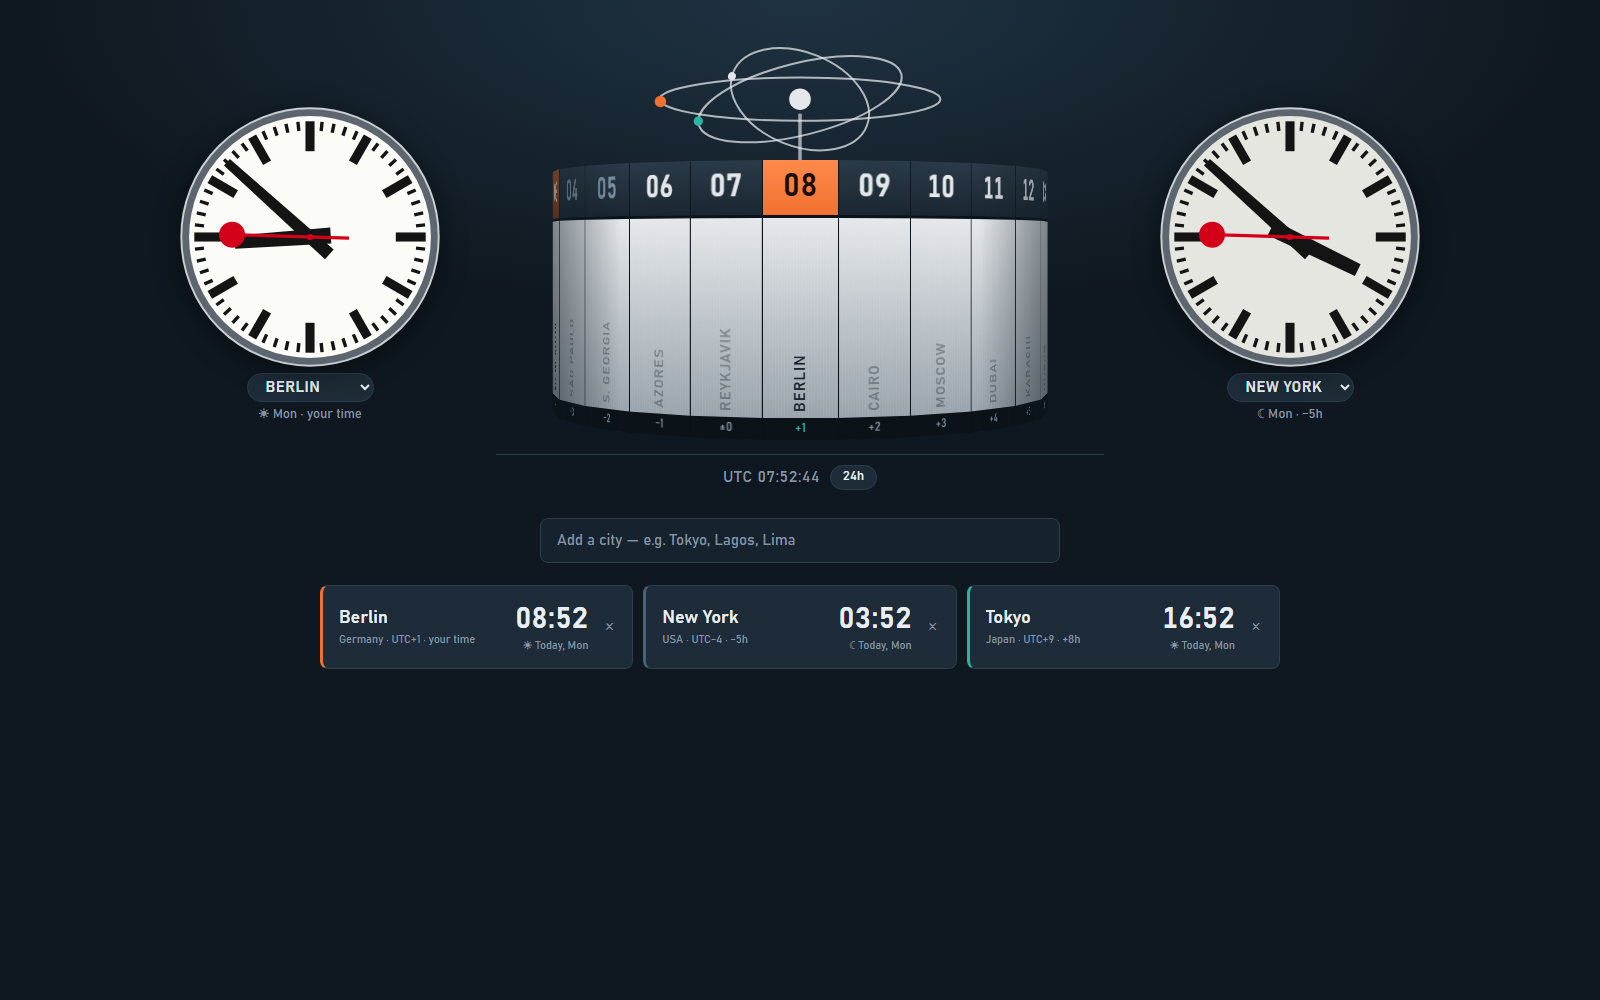
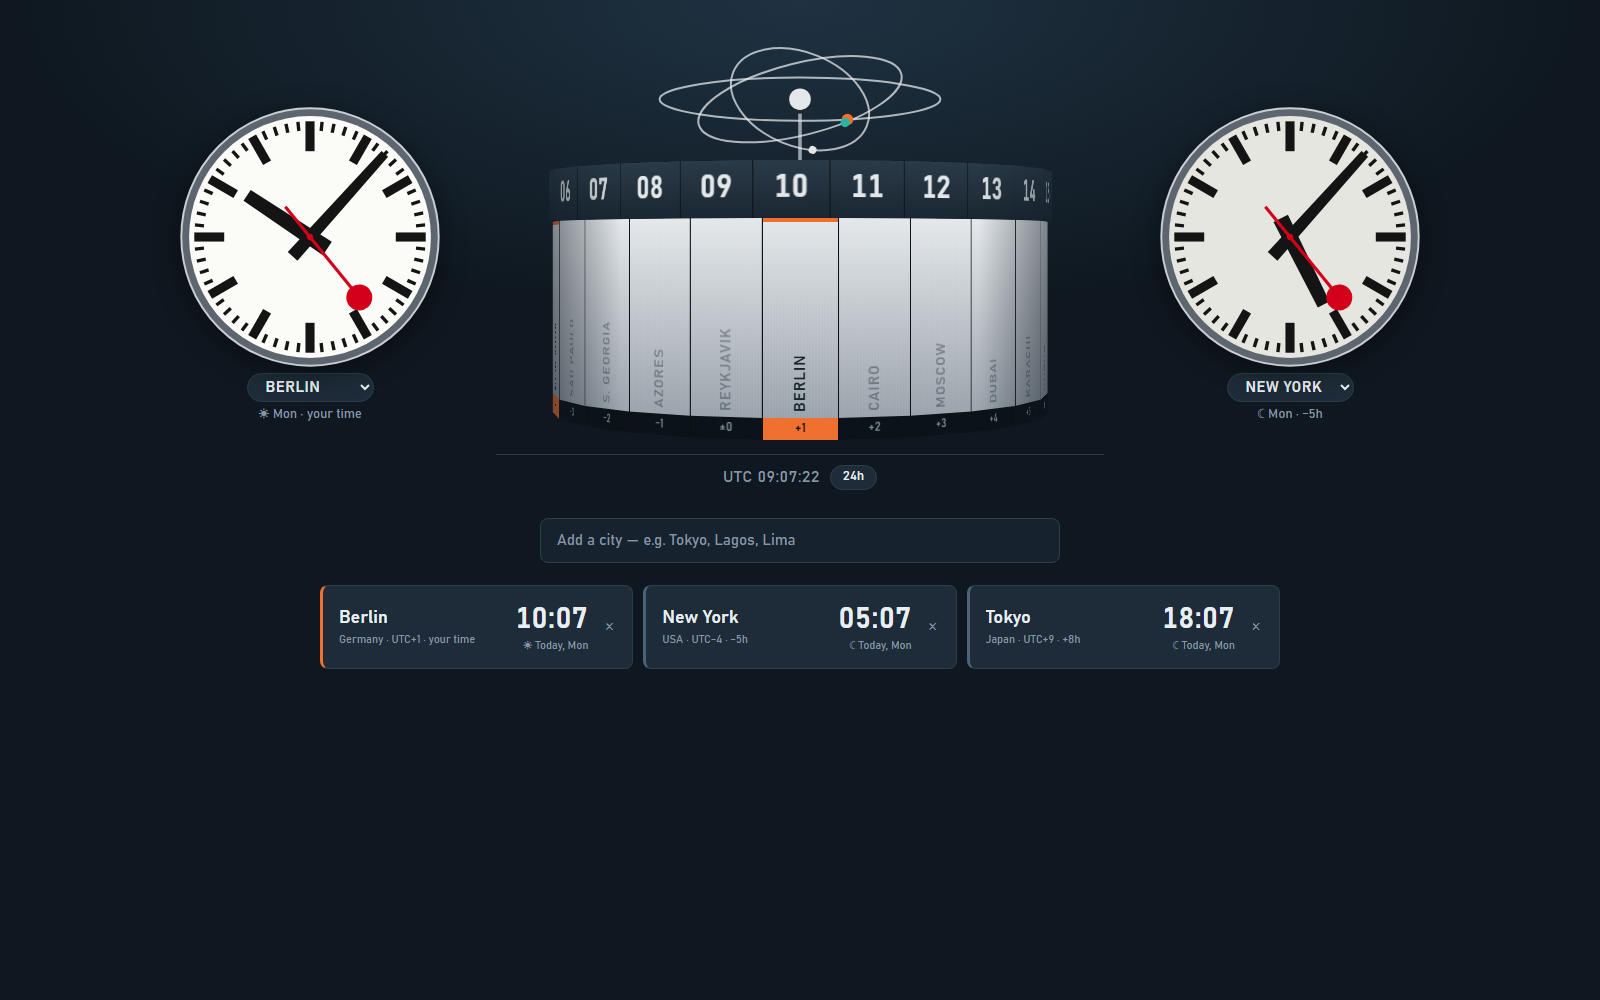
Turn the hour ring and atom model like the real Weltzeituhr
The hour ring is now separate from the fixed column and turns once a day,
so each number glides from face to face; the atom model turns once a
minute in sync with the clock. City faces are marked on the column body
instead of the ring. Refresh README screenshots.

diff --git a/popup.js b/popup.js
@@ -158,6 +158,7 @@ const save = () => store.set({ cities: state.cities, hour12: state.hour12, clock
 // ---------- The column ----------
 
 const faces = [];
+const ringSegs = [];
 
 function buildColumn() {
   const cyl = $("cylinder");
@@ -166,9 +167,41 @@ function buildColumn() {
     const face = document.createElement("div");
     face.className = "face";
     face.style.transform = `rotateY(${i * FACE_DEG}deg) translateZ(${RADIUS}px)`;
-    face.innerHTML = `<div class="hour"></div><div class="body"></div><div class="zone">${fmtOffset(k * 60)}</div>`;
+    face.innerHTML = `<div class="track"></div><div class="body"></div><div class="zone">${fmtOffset(k * 60)}</div>`;
     cyl.appendChild(face);
-    faces.push({ k, el: face, hour: face.firstChild, body: face.children[1] });
+    faces.push({ k, el: face, body: face.children[1] });
+  }
+
+  // The hour ring is separate from the fixed faces, as on the real clock:
+  // it carries the numbers 0–23 and turns once a day around the column.
+  // It runs just outside the column's corners so it never cuts into them
+  // when a number sits between two faces.
+  const ringRadius = RADIUS / Math.cos((FACE_DEG / 2) * Math.PI / 180) + 2;
+  const faceW = parseFloat(getComputedStyle(document.documentElement).getPropertyValue("--face-w")) || 46;
+  const segW = faceW * ringRadius / RADIUS;
+  const ring = document.createElement("div");
+  ring.className = "ring";
+  ring.id = "ring";
+  ring.style.width = `${segW}px`;
+  ring.style.left = `${(faceW - segW) / 2}px`;
+  for (let h = 0; h < 24; h++) {
+    const seg = document.createElement("div");
+    seg.className = isNight(h) ? "seg night" : "seg";
+    seg.style.transform = `rotateY(${(h + 11) * FACE_DEG}deg) translateZ(${ringRadius}px)`;
+    ring.appendChild(seg);
+    ringSegs.push({ h, el: seg });
+  }
+  cyl.appendChild(ring);
+}
+
+// Hour h sits over the face where it is exactly h:00 right now, so the ring
+// creeps westward 15° an hour and each number glides from face to face.
+function renderRing(now) {
+  const t = now.getUTCHours() + now.getUTCMinutes() / 60 + now.getUTCSeconds() / 3600;
+  $("ring").style.transform = `rotateY(${-t * FACE_DEG}deg)`;
+  for (const s of ringSegs) {
+    const label = state.hour12 ? String(s.h % 12 || 12) : String(s.h).padStart(2, "0");
+    if (s.el.textContent !== label) s.el.textContent = label;
   }
 }
 
@@ -183,10 +216,6 @@ function renderColumn(now) {
 
   const front = frontFace();
   for (const f of faces) {
-    const hour = (utcHour + f.k + 24) % 24;
-    const label = state.hour12 ? String(hour % 12 || 12) : String(hour).padStart(2, "0");
-    if (f.hour.textContent !== label) f.hour.textContent = label;
-
     const mine = byFace.get(f.k) || [];
     const names = mine.length ? mine.slice(0, 3) : [FACE_LABELS[f.k]];
     const html = names.map((n) => `<span class="name${mine.length ? "" : " ref"}">${escapeHtml(n)}</span>`).join("");
@@ -194,9 +223,9 @@ function renderColumn(now) {
     f.el.title = mine.length ? mine.join(", ") : `UTC${fmtOffset(f.k * 60)}`;
 
     f.el.classList.toggle("mine", mine.length > 0);
-    f.el.classList.toggle("night", isNight(hour));
     f.el.classList.toggle("front", f.k === front);
   }
+  renderRing(now);
 }
 
 function frontFace() {
@@ -562,6 +591,9 @@ async function init() {
   applyRotation();
   cyl.getBoundingClientRect();
   cyl.style.transition = "";
+
+  // The atom model turns once a minute; start it where the real one would be.
+  $("atom").setCurrentTime((Date.now() % 60000) / 1000);
 
   renderList();
   setInterval(tick, 1000);

diff --git a/popup.css b/popup.css
@@ -11,6 +11,7 @@
   --mosaic: #2bb3a3;   /* the teal of the compass-rose mosaic */
   --face-w: 46px;
   --radius: 172px;     /* ≈ face-w / (2·tan 7.5°) */
+  --ring-h: 34px;
   --font: "Bahnschrift", "DIN Alternate", "DIN Condensed", "Barlow Condensed", "Arial Narrow", "Helvetica Neue", sans-serif;
 }
 
@@ -81,20 +82,36 @@ body {
   border-left: 1px solid rgba(0, 0, 0, .35);
 }
 
-/* Upper ring: the hour numbers */
-.face .hour {
-  height: 34px;
+/* Dark track on each face that the hour ring runs over */
+.face .track {
+  height: var(--ring-h);
+  background: #0b1218;
+  border-bottom: 3px solid #0b1218;
+}
+
+/* The turning hour ring */
+.ring {
+  position: absolute;
+  top: 0; left: 0;
+  width: var(--face-w);
+  height: var(--ring-h);
+  transform-style: preserve-3d;
+}
+.ring .seg {
+  position: absolute;
+  inset: 0;
+  backface-visibility: hidden;
   display: grid;
   place-items: center;
   background: linear-gradient(180deg, #2a3a47, #1a2732);
+  border-left: 1px solid rgba(0, 0, 0, .45);
   color: var(--alu-hi);
   font-size: 19px;
   font-weight: 600;
   letter-spacing: .5px;
-  border-bottom: 3px solid #0b1218;
   font-variant-numeric: tabular-nums;
 }
-.face.night .hour { color: #7f93a6; }
+.ring .seg.night { color: #7f93a6; }
 
 /* Lower body: brushed-aluminium city plaques */
 .face .body {
@@ -133,9 +150,10 @@ body {
   letter-spacing: .4px;
 }
 
-.face.mine .hour { background: linear-gradient(180deg, #ff8a4c, var(--signal)); color: #1a0f08; }
-.face.mine.night .hour { background: linear-gradient(180deg, #b45a2c, #8b4019); color: #ffe3d2; }
+.face.mine .body { box-shadow: inset 0 4px 0 var(--signal); }
+.face.mine .zone { background: var(--signal); color: #1a0f08; font-weight: 600; }
 .face.front .zone { color: var(--mosaic); }
+.face.mine.front .zone { color: #1a0f08; }
 
 .plinth {
   display: flex;
@@ -287,6 +305,7 @@ body {
 html.tab {
   --face-w: 76px;
   --radius: 289px;     /* ≈ 76 / (2·tan 7.5°) */
+  --ring-h: 58px;
 }
 html.tab body {
   width: auto;
@@ -328,7 +347,7 @@ html.tab .empty        { grid-area: empty; }
 }
 html.tab .atom { width: 360px; height: 126px; }
 html.tab .rotunda { height: 280px; perspective: 1500px; }
-html.tab .face .hour { height: 58px; font-size: 32px; }
+html.tab .ring .seg { font-size: 32px; }
 html.tab .face .name { font-size: 15px; letter-spacing: 1px; }
 html.tab .face .zone { height: 22px; font-size: 12px; }
 html.tab .plinth { font-size: 16px; margin-top: 14px; padding: 10px 0; }

diff --git a/newtab.html b/newtab.html
@@ -8,7 +8,7 @@
 <body>
   <header class="monument" aria-hidden="true">
     <!-- The "atom model": orbits and planets above the column -->
-    <svg class="atom" viewBox="0 0 200 70">
+    <svg class="atom" id="atom" viewBox="0 0 200 70">
       <line x1="100" y1="70" x2="100" y2="42" class="mast"/>
       <g class="orbits">
         <ellipse cx="100" cy="34" rx="78" ry="12" class="orbit"/>
@@ -17,13 +17,13 @@
       </g>
       <circle cx="100" cy="34" r="6" class="sun"/>
       <g class="planet p1">
-        <circle r="3.2"><animateMotion dur="14s" repeatCount="indefinite" path="M22,34 a78,12 0 1,0 156,0 a78,12 0 1,0 -156,0"/></circle>
+        <circle r="3.2"><animateMotion dur="60s" repeatCount="indefinite" path="M22,34 a78,12 0 1,0 156,0 a78,12 0 1,0 -156,0"/></circle>
       </g>
       <g class="planet p2" transform="rotate(-14 100 34)">
-        <circle r="2.6"><animateMotion dur="9s" repeatCount="indefinite" keyPoints="1;0" keyTimes="0;1" calcMode="linear" path="M42,34 a58,20 0 1,0 116,0 a58,20 0 1,0 -116,0"/></circle>
+        <circle r="2.6"><animateMotion dur="60s" repeatCount="indefinite" path="M42,34 a58,20 0 1,0 116,0 a58,20 0 1,0 -116,0"/></circle>
       </g>
       <g class="planet p3" transform="rotate(22 100 34)">
-        <circle r="2.2"><animateMotion dur="6s" repeatCount="indefinite" path="M60,34 a40,26 0 1,0 80,0 a40,26 0 1,0 -80,0"/></circle>
+        <circle r="2.2"><animateMotion dur="60s" repeatCount="indefinite" path="M60,34 a40,26 0 1,0 80,0 a40,26 0 1,0 -80,0"/></circle>
       </g>
     </svg>
   </header>

diff --git a/popup.html b/popup.html
@@ -8,7 +8,7 @@
 <body>
   <header class="monument" aria-hidden="true">
     <!-- The "atom model": orbits and planets above the column -->
-    <svg class="atom" viewBox="0 0 200 70">
+    <svg class="atom" id="atom" viewBox="0 0 200 70">
       <line x1="100" y1="70" x2="100" y2="42" class="mast"/>
       <g class="orbits">
         <ellipse cx="100" cy="34" rx="78" ry="12" class="orbit"/>
@@ -17,13 +17,13 @@
       </g>
       <circle cx="100" cy="34" r="6" class="sun"/>
       <g class="planet p1">
-        <circle r="3.2"><animateMotion dur="14s" repeatCount="indefinite" path="M22,34 a78,12 0 1,0 156,0 a78,12 0 1,0 -156,0"/></circle>
+        <circle r="3.2"><animateMotion dur="60s" repeatCount="indefinite" path="M22,34 a78,12 0 1,0 156,0 a78,12 0 1,0 -156,0"/></circle>
       </g>
       <g class="planet p2" transform="rotate(-14 100 34)">
-        <circle r="2.6"><animateMotion dur="9s" repeatCount="indefinite" keyPoints="1;0" keyTimes="0;1" calcMode="linear" path="M42,34 a58,20 0 1,0 116,0 a58,20 0 1,0 -116,0"/></circle>
+        <circle r="2.6"><animateMotion dur="60s" repeatCount="indefinite" path="M42,34 a58,20 0 1,0 116,0 a58,20 0 1,0 -116,0"/></circle>
       </g>
       <g class="planet p3" transform="rotate(22 100 34)">
-        <circle r="2.2"><animateMotion dur="6s" repeatCount="indefinite" path="M60,34 a40,26 0 1,0 80,0 a40,26 0 1,0 -80,0"/></circle>
+        <circle r="2.2"><animateMotion dur="60s" repeatCount="indefinite" path="M60,34 a40,26 0 1,0 80,0 a40,26 0 1,0 -80,0"/></circle>
       </g>
     </svg>
   </header>

diff --git a/README.md b/README.md
@@ -27,8 +27,10 @@ Works in any Chromium browser that supports Manifest V3 (Chrome, Edge, Brave, Ar
 ## Use
 
 - **Add a city:** type in the search box (≈130 curated cities plus every IANA time zone), then pick with ↑/↓ + Enter or click.
-- **The column:** faces holding your cities glow orange; faint names are the column's own reference plaques.
+- **The column:** faces holding your cities are marked orange; faint names are the column's own reference plaques.
   Drag or scroll to turn it; click a city in the list to turn its face to the front.
+- **Moves like the real one:** the hour ring turns around the fixed column once a day (15° an hour), so each number
+  glides from face to face — at half past, it sits halfway between two faces. The atom model on top turns once a minute.
 - **List:** local time, day/night, Today/Tomorrow/Yesterday, UTC offset and the difference from your time.
   Drag rows to reorder, × to remove.
 - **Swiss clocks:** two SBB-style railway clocks; pick each one's city from the dropdown under it (any city in your list).
